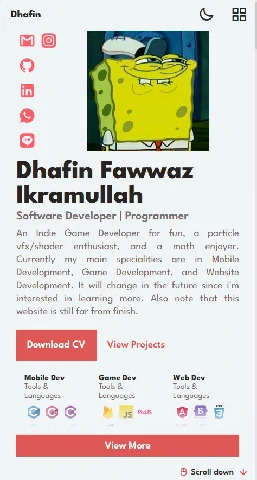
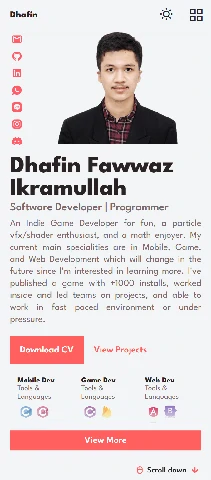
Portfolio update

diff --git a/json/projects.ts b/json/projects.ts
@@ -176,13 +176,13 @@ export const projects = [
       {
         "img": "Portfolio.webp",
         "blurDataURL": graylight,
-        "width": 491.25,
-        "height": 279.52,
+        "width": 810.55,
+        "height": 379,
       },{
         "img": "Preview Mobile.webp",
         "blurDataURL": graylight,
-        "width": 147.95,
-        "height": 279.52,
+        "width": 211,
+        "height": 480,
       }
     ]
   },{

diff --git a/styles/globals.css b/styles/globals.css
@@ -299,10 +299,9 @@ footer.section {
 
 
 .home{
-  padding: 0rem 0 2rem;
+  padding: 3rem 0 2rem;
   max-width: calc(var(--max-width)- var(--mb-2));
   min-height: 100vh;
-  margin: 0;
 }
 
 

diff --git a/styles/home.module.css b/styles/home.module.css
@@ -300,7 +300,7 @@
   }
   .description {
     margin-top: var(--mb-1);
-    /* margin-bottom: var(--mb-2); */
+    margin-bottom: var(--mb-2);
   }
 
   .img{
